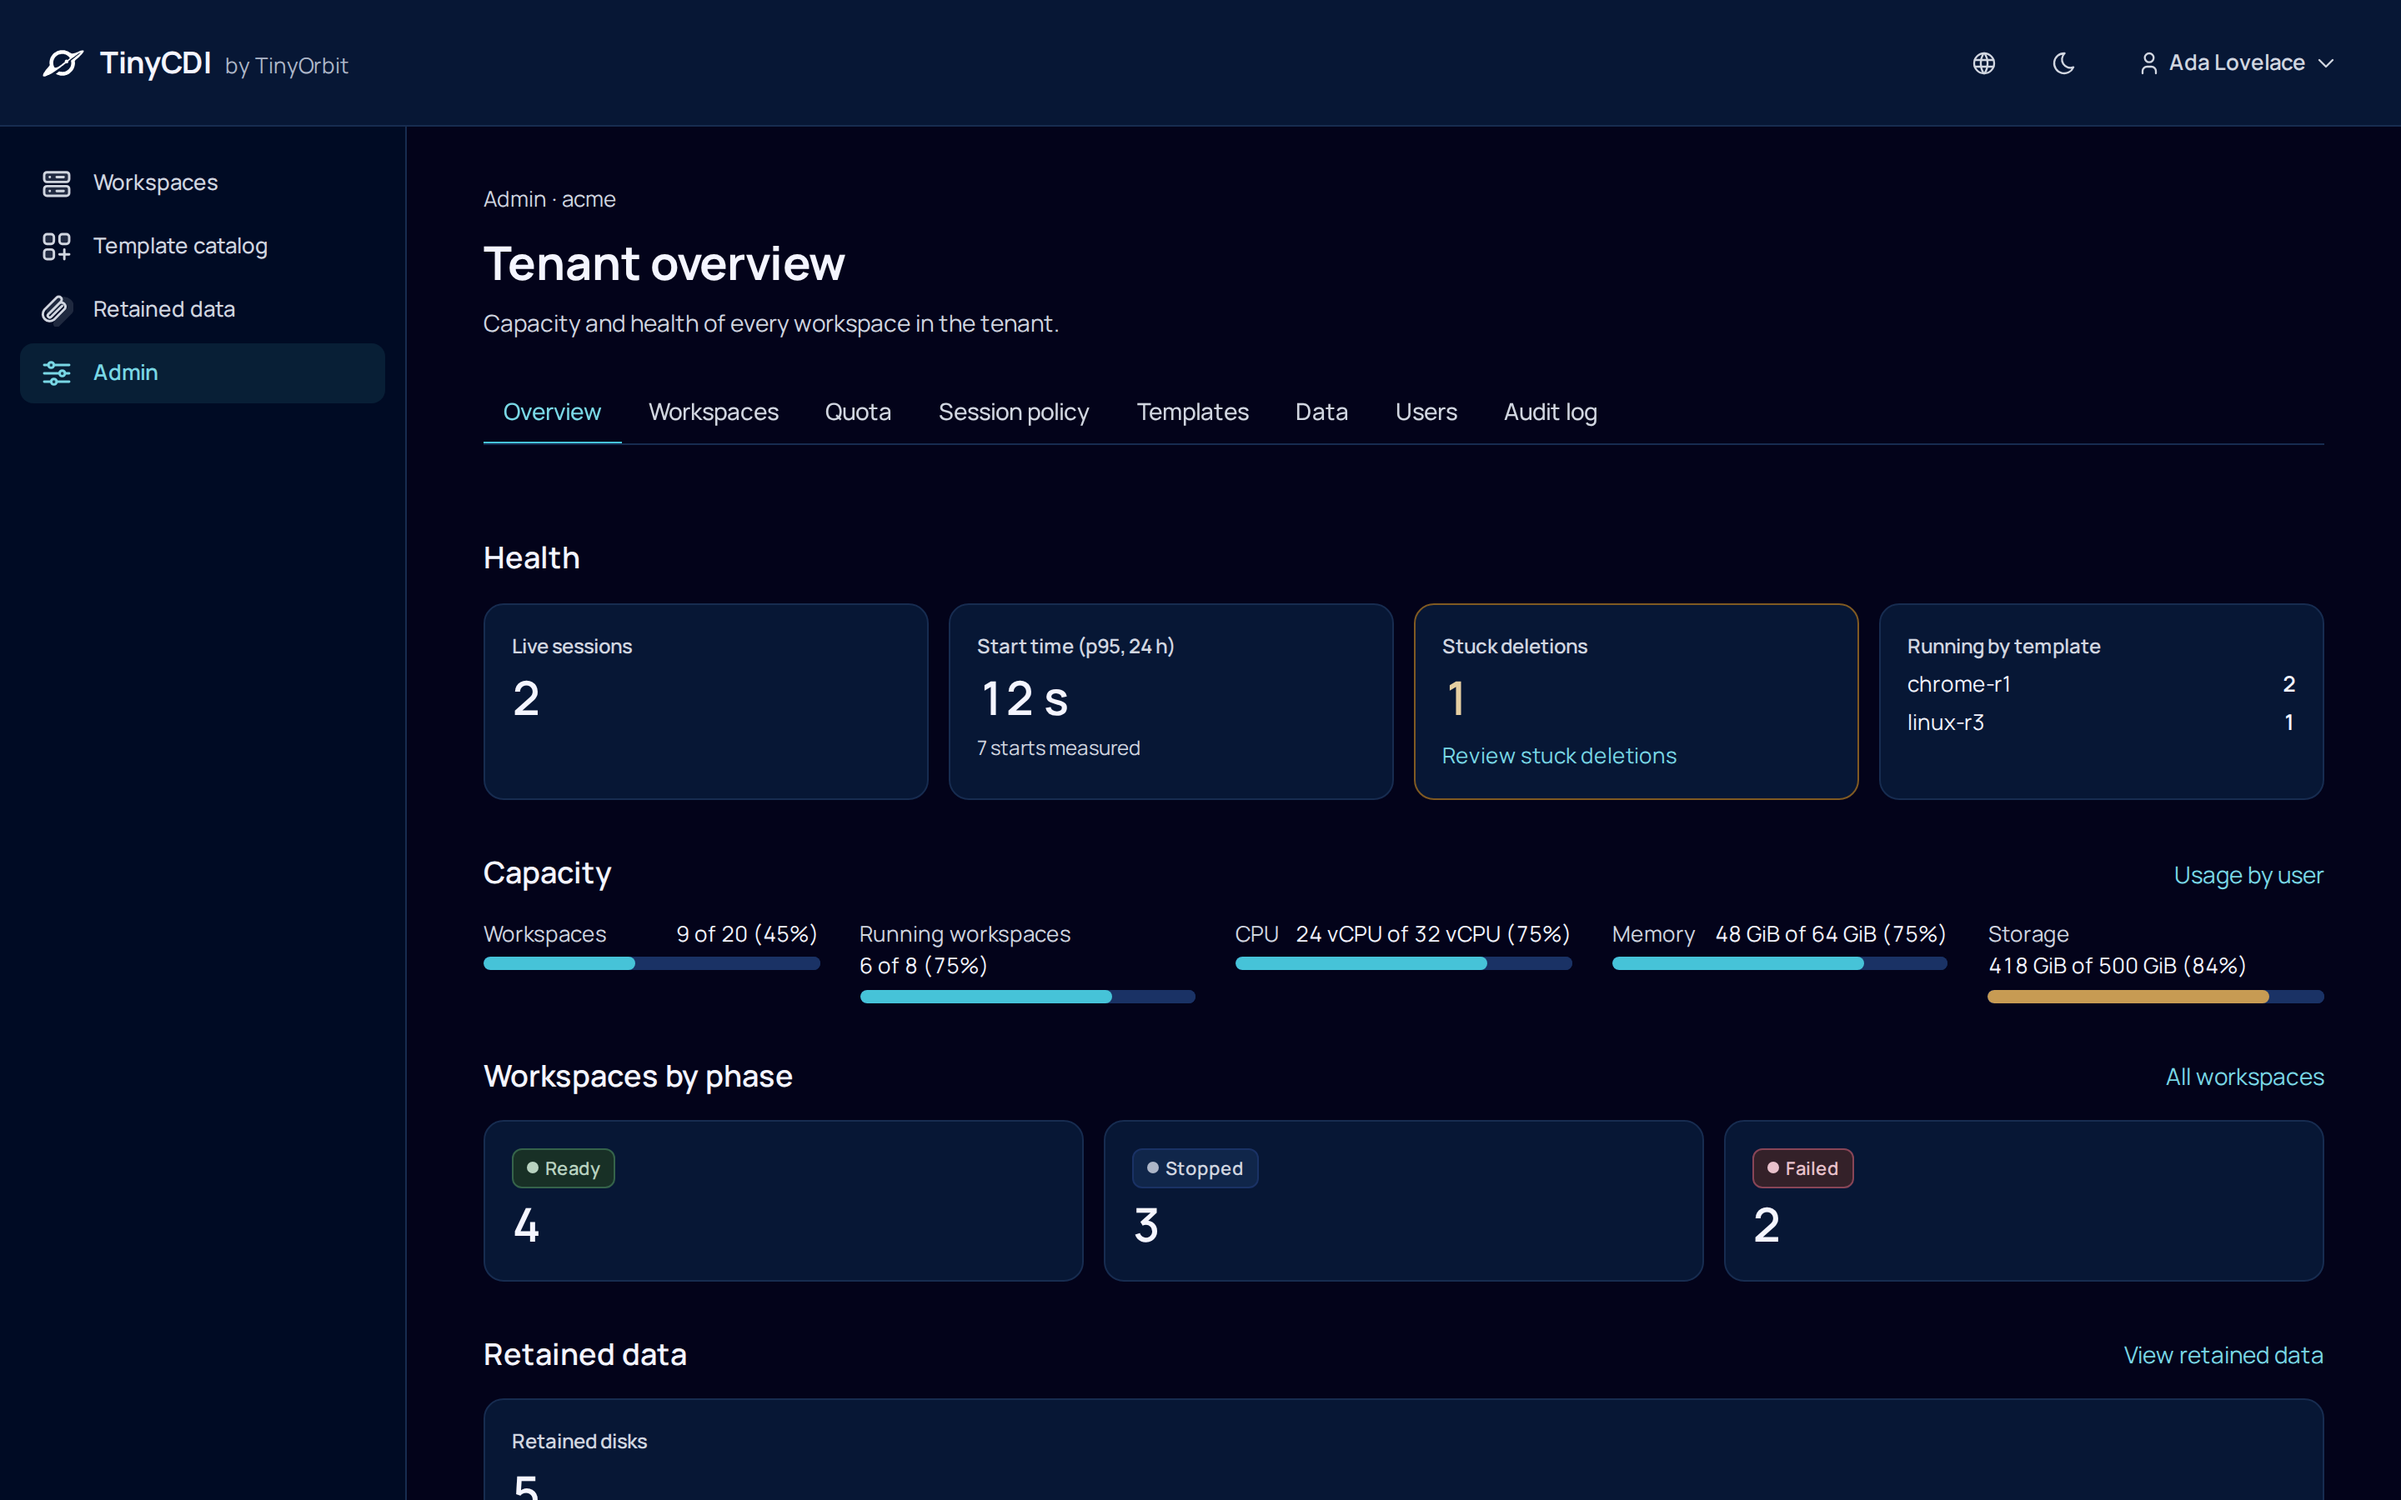
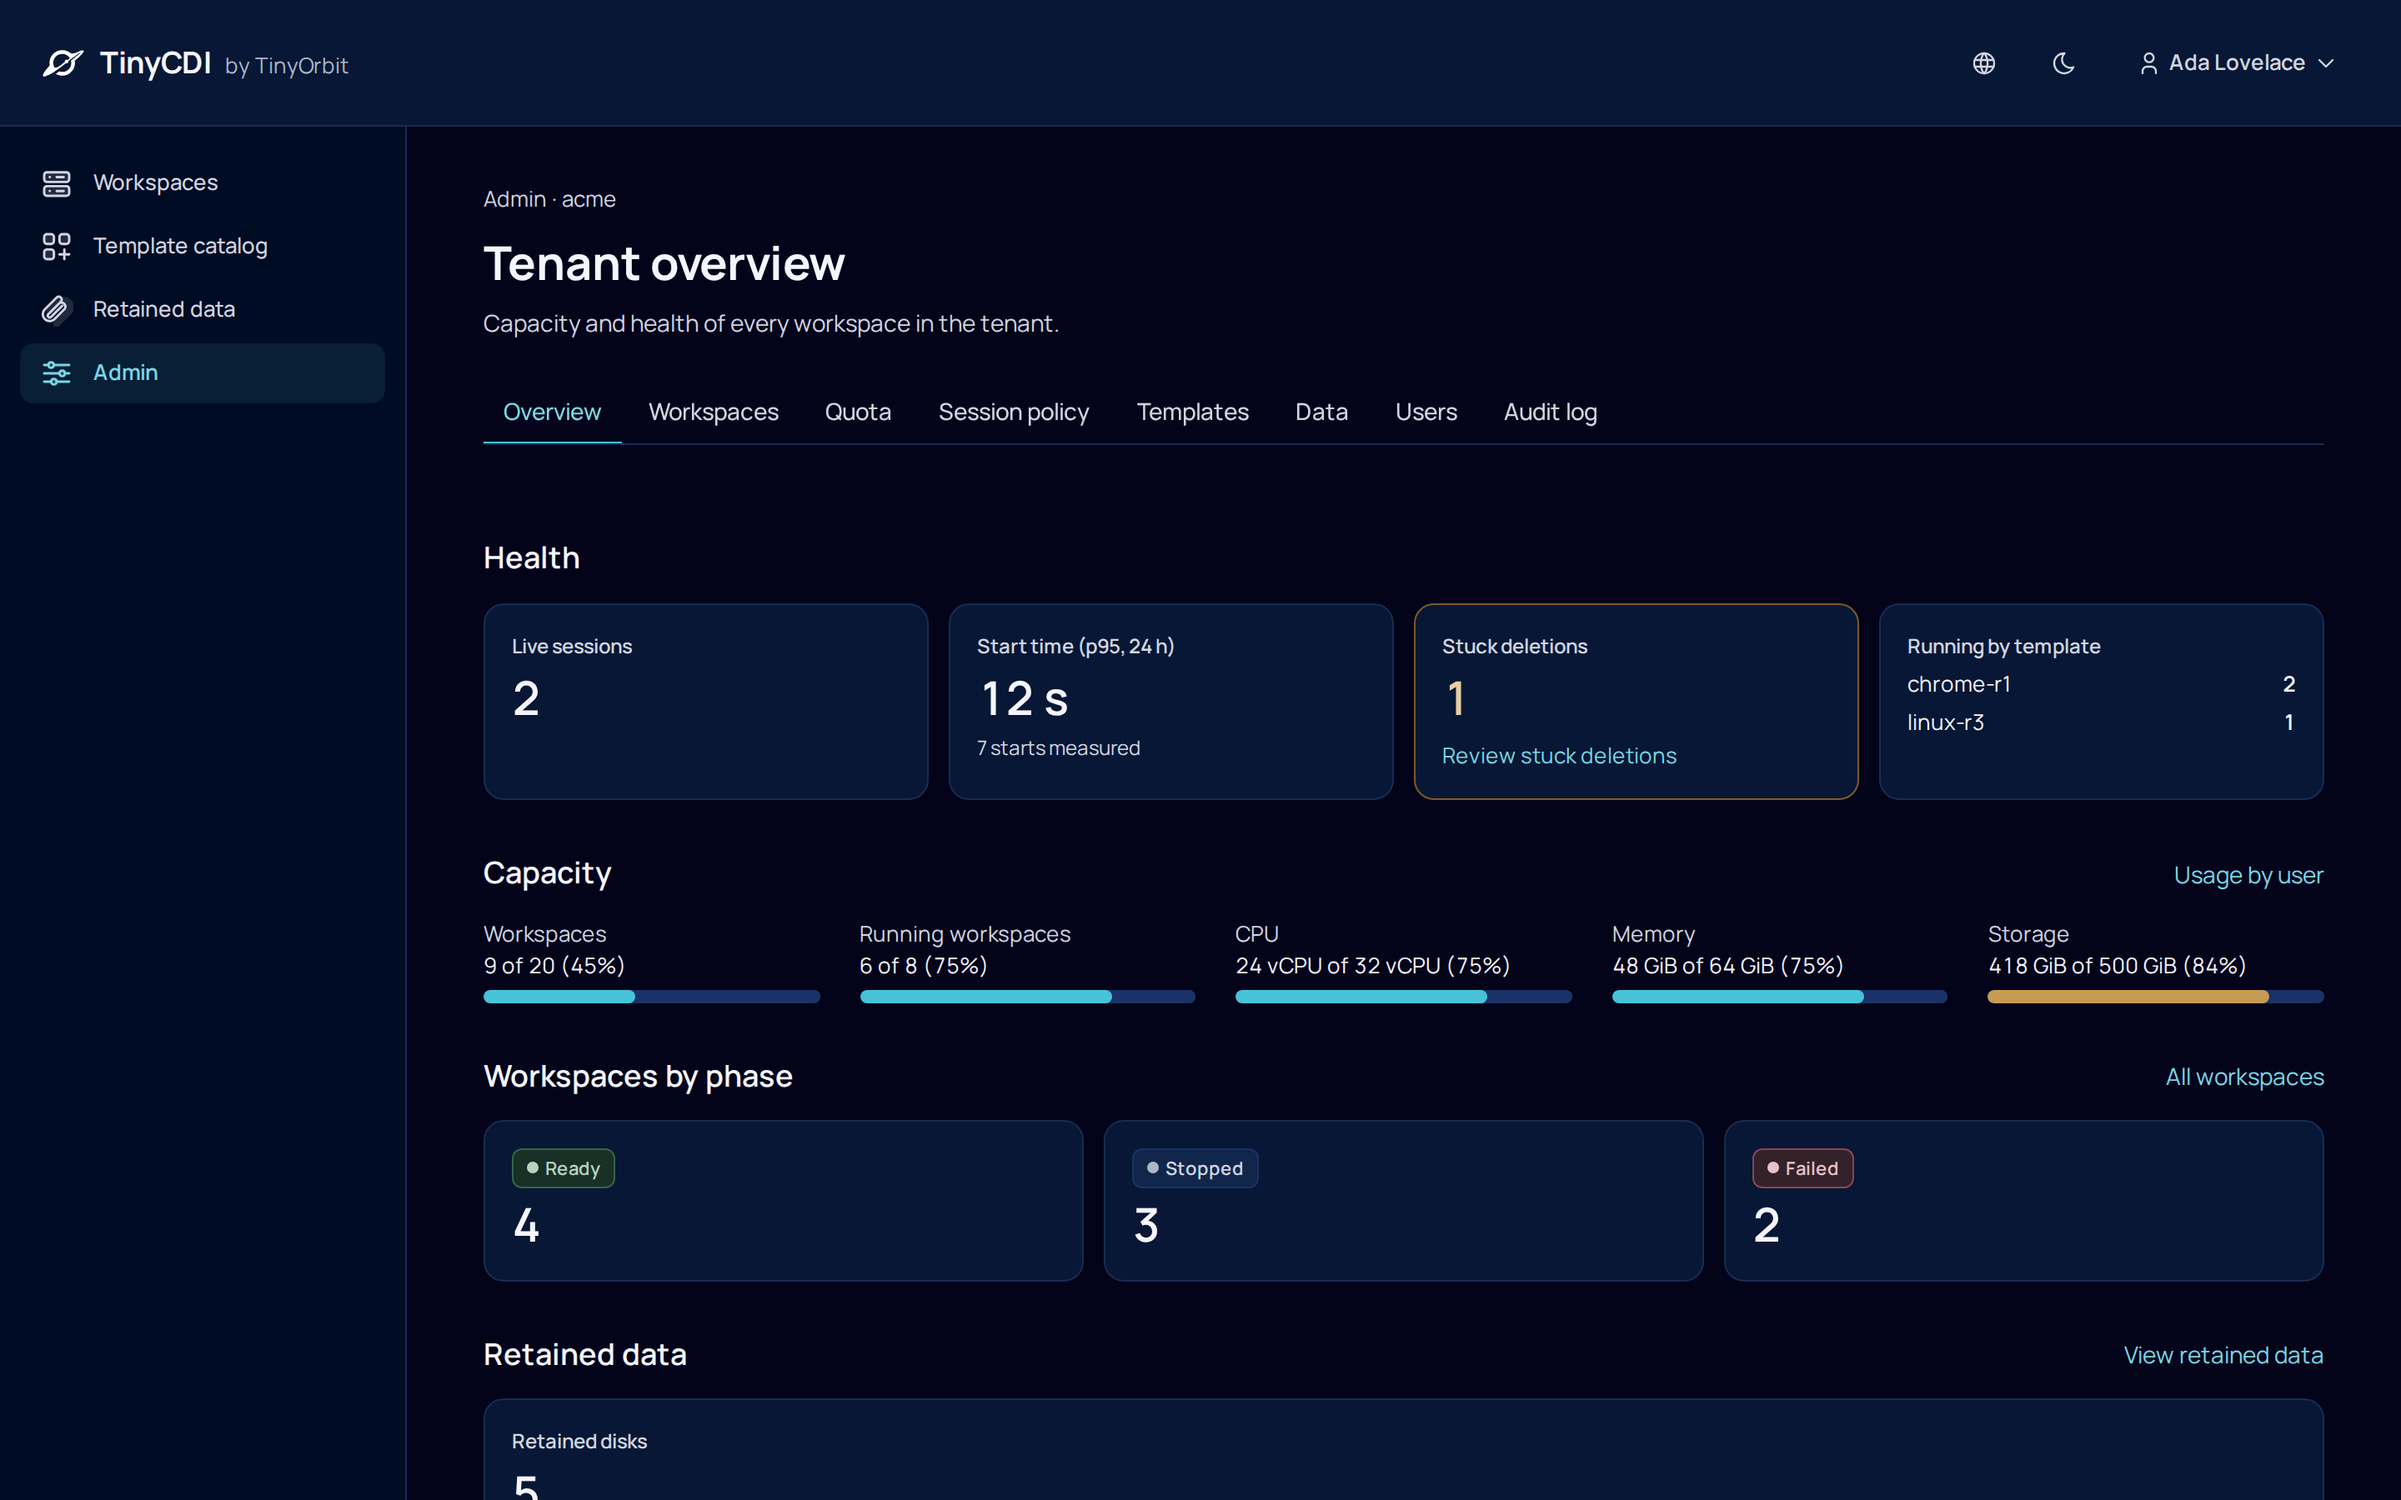
fix(web): failed rows say they failed, meters share a baseline, detail shot shows events
- Compact progress line on a Failed workspace reads "Failed at step N of M"
  instead of the in-flight "Starting <name> · step N of M" title.
- Meter header always stacks label above value, so bars in one row align
  whether or not a label would have wrapped.
- Screenshot generator opens the Ready demo workspace that carries events;
  portal/admin screenshots recaptured.

Changed region(s): [[0.5, 0.6222, 0.8125, 0.6844], [0.1875, 0.6222, 0.3438, 0.6844]]

diff --git a/web/src/progress/LifecycleProgress.tsx b/web/src/progress/LifecycleProgress.tsx
@@ -155,8 +155,12 @@ export function LifecycleProgress({
     return (
       <span className={cx("tc-progress", "tc-progress--compact", className)}>
         <span className="tc-progress__compactline">
-          {t(model.title, { name: workspace.name })} ·{" "}
-          {t("progress.step.of", { current: model.current + 1, total: model.steps.length })}
+          {model.terminal === "failed"
+            ? t("progress.compact.failedAt", { current: model.current + 1, total: model.steps.length })
+            : `${t(model.title, { name: workspace.name })} · ${t("progress.step.of", {
+                current: model.current + 1,
+                total: model.steps.length,
+              })}`}
           {cur ? ` · ${t(cur.label)}` : ""}
         </span>
         {showTimer ? (

diff --git a/web/tests/unit/progress/LifecycleProgress.test.tsx b/web/tests/unit/progress/LifecycleProgress.test.tsx
@@ -185,7 +185,10 @@ describe("LifecycleProgress", () => {
       ],
     });
     const compact = render(<LifecycleProgress workspace={ws} variant="compact" />);
-    await screen.findByText(/step/, { selector: ".tc-progress__compactline" });
+    const line = await screen.findByText(/step/, { selector: ".tc-progress__compactline" });
+    // A failed row says it failed; it must not read like a start in progress.
+    expect(line.textContent).toMatch(/^Failed at step \d of \d/);
+    expect(line.textContent).not.toMatch(/^Starting/);
     expect(compact.container.querySelector(".tc-progress__elapsed")).toBeNull();
     compact.unmount();
 

diff --git a/web/src/design/design.css b/web/src/design/design.css
@@ -792,11 +792,12 @@
   grid-template-columns: repeat(auto-fit, minmax(min(11rem, 100%), 1fr));
 }
 
+/* Label above value on every meter, so bars in one row share a baseline
+   whether or not a label would have wrapped. */
 .tc-meter__header {
   display: flex;
-  flex-wrap: wrap;
-  justify-content: space-between;
-  gap: 0 var(--tc-space-2);
+  flex-direction: column;
+  gap: 0;
   margin-bottom: var(--tc-space-1);
   font-size: var(--tc-text-sm);
 }

diff --git a/web/src/i18n/vi/progress.ts b/web/src/i18n/vi/progress.ts
@@ -33,6 +33,7 @@ export default {
   "progress.state.failed": "lỗi",
   "progress.state.skipped": "đã bỏ qua",
 
+  "progress.compact.failedAt": "Lỗi ở bước {current} trên {total}",
   "progress.step.of": "bước {current} trên {total}",
   "progress.step.elapsed": "trong {elapsed}",
   "progress.step.reason": "Trạng thái: {reason}",

diff --git a/web/src/i18n/en/progress.ts b/web/src/i18n/en/progress.ts
@@ -31,6 +31,7 @@ export default {
   "progress.state.failed": "failed",
   "progress.state.skipped": "skipped",
 
+  "progress.compact.failedAt": "Failed at step {current} of {total}",
   "progress.step.of": "step {current} of {total}",
   "progress.step.elapsed": "for {elapsed}",
   "progress.step.reason": "Status: {reason}",
